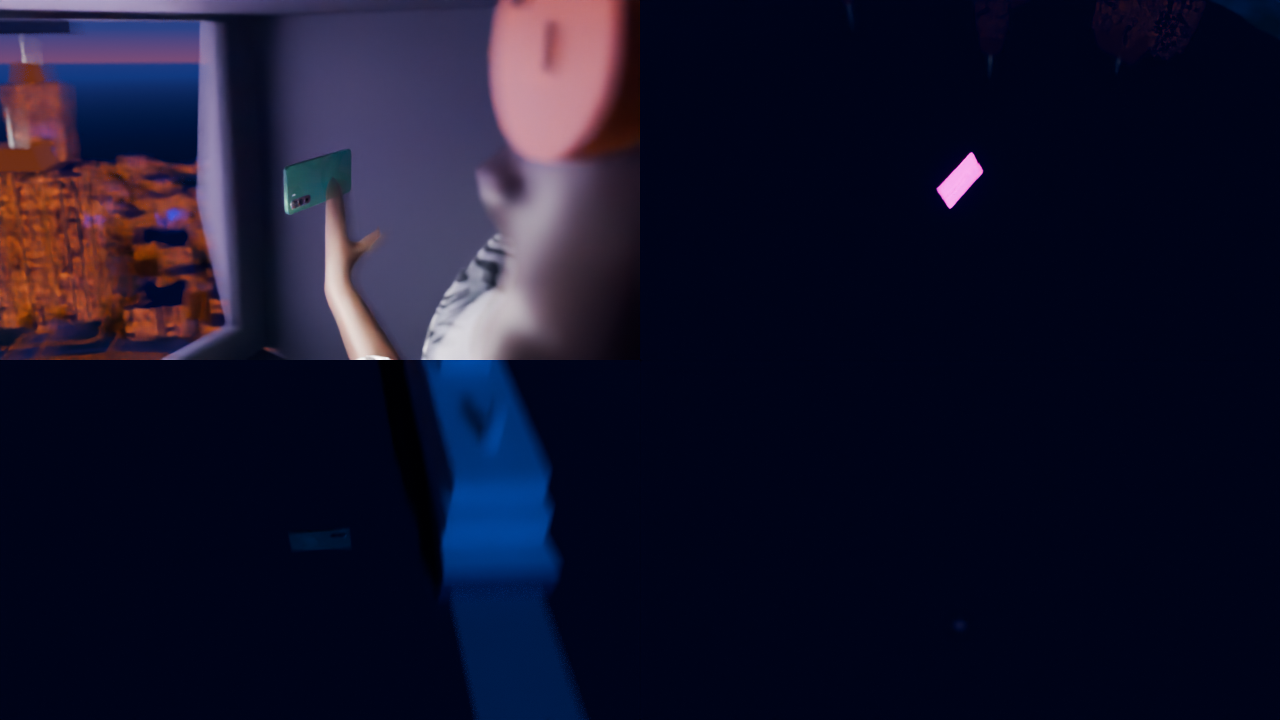
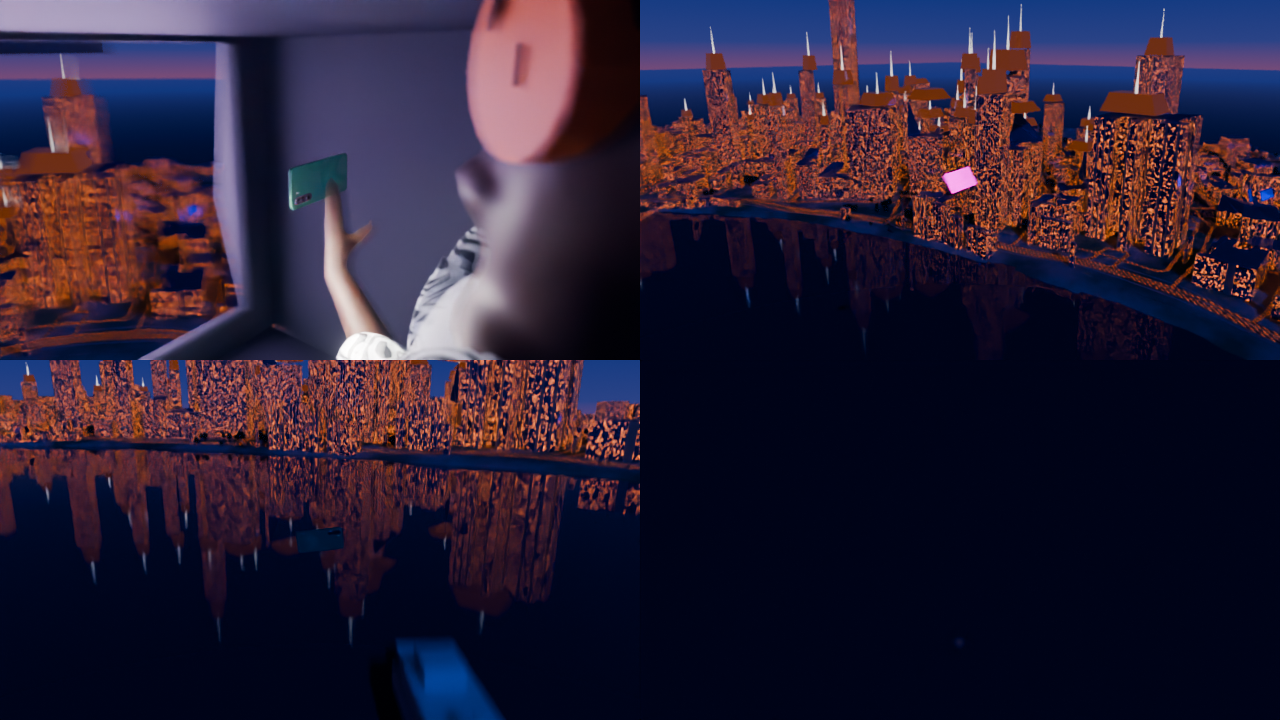
Fall scene: footage plays from the start of the recording (no out-of-range offset)

diff --git a/POSTA_2040/scripts/scenes/s10.py b/POSTA_2040/scripts/scenes/s10.py
@@ -12,7 +12,7 @@ def build(scn, quality):
     S.world_bluehour(sun_energy=0.3, strength=0.55)
     S.enable_mist(start=500, depth=3500, color=(0.1, 0.1, 0.2, 1), strength=0.3)
     heli, seat = S.hover_helicopter(F); rig, phone = S.cabin_passenger(seat, F)
-    S.screen_sequence(seq_dir=os.path.join(P.ROOT, 'renders', 's09_ui'), strength=2.6, flip=True, offset=288)
+    S.screen_sequence(seq_dir=os.path.join(P.ROOT, 'renders', 's09_ui'), strength=2.6, flip=True)
     # the hand opens and reaches after the phone
     CA.set_rot(rig, 'upper_arm.R', rx=80, frame=8); CA.set_rot(rig, 'upper_arm.R', rx=95, ry=-10, frame=20); CA.set_rot(rig, 'head', rx=35, frame=24)
     bpy.context.view_layer.update()
